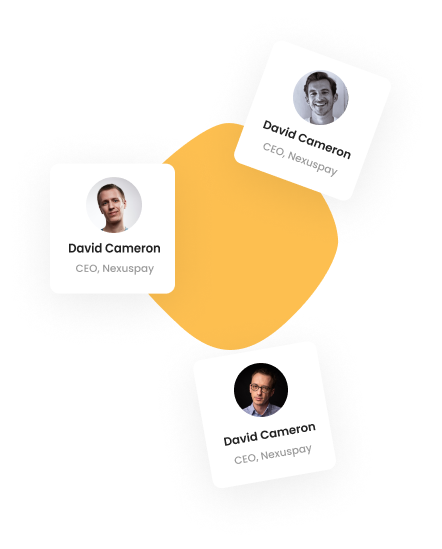
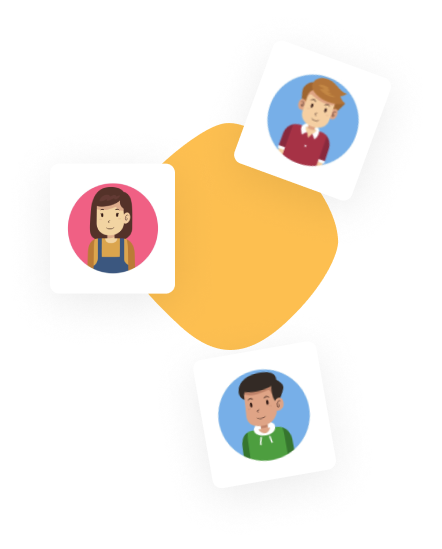
pdate testimonial images

Changed region(s): [[0.5882, 0.1239, 0.8235, 0.3406], [0.4706, 0.6503, 0.7059, 0.867], [0.1471, 0.3097, 0.3824, 0.4954]]

diff --git a/public/index.html b/public/index.html
@@ -21428,7 +21428,7 @@ iframe.wait-autoplay {
 
         <img
           
-            src="/images/testimonials-01_hu_4380a2665c073482.webp" loading="lazy"
+            src="/images/testimonials-01_hu_535badf7c783f1b0.webp" loading="lazy"
             decoding="async"
           
 
@@ -21437,7 +21437,7 @@ iframe.wait-autoplay {
           width="445"
           height="553"
           onerror="this.onerror='null';
-          this.src='\/images\/testimonials-01_hu_5a4ab44daf94b473.png';" />
+          this.src='\/images\/testimonials-01_hu_e518e999fb3a5ce2.png';" />
 
         
       
@@ -21538,7 +21538,7 @@ iframe.wait-autoplay {
 
         <img
           
-            src="/images/user-img/05-i_hu_42602aac70d02fc4.webp" loading="lazy"
+            src="/images/user-img/4_hu_26176de3def89e50.webp" loading="lazy"
             decoding="async"
           
 
@@ -21547,7 +21547,7 @@ iframe.wait-autoplay {
           width="90"
           height="90"
           onerror="this.onerror='null';
-          this.src='\/images\/user-img\/05-i_hu_5776b776de883ffb.jpg';" />
+          this.src='\/images\/user-img\/4_hu_e0d64fbe8765ced7.jpg';" />
 
         
       
@@ -21646,7 +21646,7 @@ iframe.wait-autoplay {
 
         <img
           
-            src="/images/user-img/06-i_hu_91bec0962ad03d38.webp" loading="lazy"
+            src="/images/user-img/1_hu_905f591c4bdfcf3f.webp" loading="lazy"
             decoding="async"
           
 
@@ -21655,7 +21655,7 @@ iframe.wait-autoplay {
           width="90"
           height="90"
           onerror="this.onerror='null';
-          this.src='\/images\/user-img\/06-i_hu_1b2b0d5cf87b4ca3.jpg';" />
+          this.src='\/images\/user-img\/1_hu_a8b7b27a7e23a355.jpg';" />
 
         
       
@@ -21754,7 +21754,7 @@ iframe.wait-autoplay {
 
         <img
           
-            src="/images/user-img/07-i_hu_fa7e9c95d7704058.webp" loading="lazy"
+            src="/images/user-img/2_hu_34451b6df4b2454f.webp" loading="lazy"
             decoding="async"
           
 
@@ -21763,7 +21763,7 @@ iframe.wait-autoplay {
           width="90"
           height="90"
           onerror="this.onerror='null';
-          this.src='\/images\/user-img\/07-i_hu_833bcb16b961e0ef.jpg';" />
+          this.src='\/images\/user-img\/2_hu_586b7a7ef4e5ad71.jpg';" />
 
         
       
@@ -21862,7 +21862,7 @@ iframe.wait-autoplay {
 
         <img
           
-            src="/images/user-img/08-i_hu_1eb17a4de17359da.webp" loading="lazy"
+            src="/images/user-img/5_hu_ff4142383f6e6dda.webp" loading="lazy"
             decoding="async"
           
 
@@ -21871,7 +21871,7 @@ iframe.wait-autoplay {
           width="90"
           height="90"
           onerror="this.onerror='null';
-          this.src='\/images\/user-img\/08-i_hu_3f64c585d4cd08bc.jpg';" />
+          this.src='\/images\/user-img\/5_hu_5f985c9f82b4dad4.jpg';" />
 
         
       
@@ -21970,7 +21970,7 @@ iframe.wait-autoplay {
 
         <img
           
-            src="/images/user-img/09-i_hu_12527dcecff441e6.webp" loading="lazy"
+            src="/images/user-img/1_hu_905f591c4bdfcf3f.webp" loading="lazy"
             decoding="async"
           
 
@@ -21979,7 +21979,7 @@ iframe.wait-autoplay {
           width="90"
           height="90"
           onerror="this.onerror='null';
-          this.src='\/images\/user-img\/09-i_hu_f82b3b8be3a51163.jpg';" />
+          this.src='\/images\/user-img\/1_hu_a8b7b27a7e23a355.jpg';" />
 
         
       
@@ -22078,7 +22078,7 @@ iframe.wait-autoplay {
 
         <img
           
-            src="/images/user-img/10-i_hu_c08d05c910dcfbaa.webp" loading="lazy"
+            src="/images/user-img/3_hu_2894d7659dd90d8f.webp" loading="lazy"
             decoding="async"
           
 
@@ -22087,7 +22087,7 @@ iframe.wait-autoplay {
           width="90"
           height="90"
           onerror="this.onerror='null';
-          this.src='\/images\/user-img\/10-i_hu_fed5fbf08d030abe.jpg';" />
+          this.src='\/images\/user-img\/3_hu_3a98f97c8b1a6b34.jpg';" />
 
         
       
@@ -22186,7 +22186,7 @@ iframe.wait-autoplay {
 
         <img
           
-            src="/images/user-img/10-i_hu_c08d05c910dcfbaa.webp" loading="lazy"
+            src="/images/user-img/4_hu_26176de3def89e50.webp" loading="lazy"
             decoding="async"
           
 
@@ -22195,7 +22195,7 @@ iframe.wait-autoplay {
           width="90"
           height="90"
           onerror="this.onerror='null';
-          this.src='\/images\/user-img\/10-i_hu_fed5fbf08d030abe.jpg';" />
+          this.src='\/images\/user-img\/4_hu_e0d64fbe8765ced7.jpg';" />
 
         
       
@@ -22309,7 +22309,7 @@ iframe.wait-autoplay {
 
         <img
           
-            src="/images/testimonials-02_hu_dac7ab0705a1366f.webp" loading="lazy"
+            src="/images/testimonials-02_hu_3ba013f3d9473e79.webp" loading="lazy"
             decoding="async"
           
 
@@ -22318,7 +22318,7 @@ iframe.wait-autoplay {
           width="445"
           height="553"
           onerror="this.onerror='null';
-          this.src='\/images\/testimonials-02_hu_f62345d8a0d11217.png';" />
+          this.src='\/images\/testimonials-02_hu_eb73c04f733c217b.png';" />
 
         
       

diff --git a/content/english/_index.md b/content/english/_index.md
@@ -84,35 +84,35 @@ testimonials:
     - quote: "I learned so much and now I know how to save money and use it correctly"
       name: "D"
       designation: "Year 8"
-      image: "images/user-img/05-i.jpg"
+      image: "images/user-img/4.jpg"
 
     - quote: "I really liked the worksheets (bank statements) and how we had to improvise if an emergency happens"
       name: "Y"
       designation: "Year 8"
-      image: "images/user-img/06-i.jpg"
+      image: "images/user-img/1.jpg"
 
     - quote: "The workshop was very informative and the activities helped me understand more about banking as a whole since it was a foreign subject to me. Overall, very useful and informative and it would be beneficial for me friends to do it"
       name: "L"
       designation: "Year 8"
-      image: "images/user-img/07-i.jpg"
+      image: "images/user-img/2.jpg"
 
     - quote: "I enjoyed using the dummy cards and managing three different accounts. It was a new experience for me, and I liked learning how to handle mandatory expenses"
       name: "A"
       designation: "Year 8"
-      image: "images/user-img/08-i.jpg"
+      image: "images/user-img/5.jpg"
 
     - quote: "The role playing activities made it easy to understand things like interest rates. It was like a game, but I learned a lot!"
       name: "S"
       designation: "Year 8"
-      image: "images/user-img/09-i.jpg"
+      image: "images/user-img/1.jpg"
 
     - quote: "I’ve always wanted to use a debit card. Trying out a pretend one in the workshop was fun and helped me understand how to actually use it"
       name: "K"
       designation: "Year 8"
-      image: "images/user-img/10-i.jpg"
+      image: "images/user-img/3.jpg"
 
     - quote: "The phishing email activity was really helpful. I learned to spot signs like strange links and urgent language"
       name: "A"
       designation: "Year 8"
-      image: "images/user-img/10-i.jpg"
+      image: "images/user-img/4.jpg"
 ---
